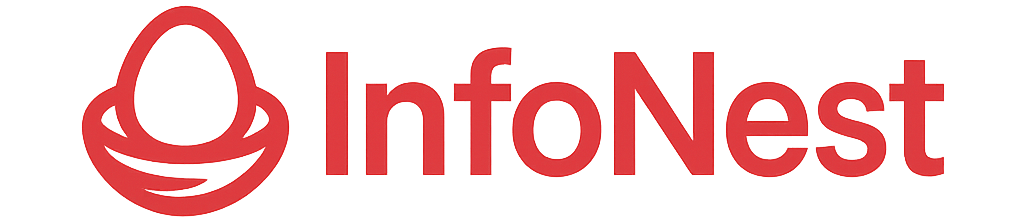
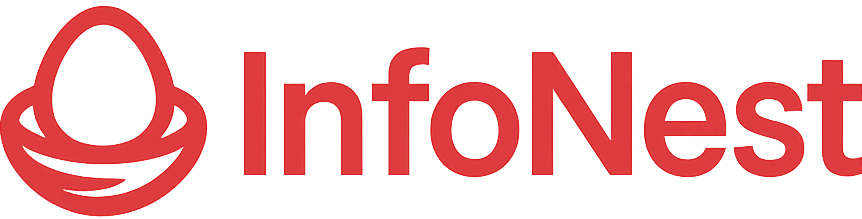
resposive nav bar created

diff --git a/src/components/NavBar.jsx b/src/components/NavBar.jsx
@@ -1,22 +1,27 @@
 import { Link, NavLink } from "react-router";
-import { AiOutlineShoppingCart } from "react-icons/ai";
+
+import { CiUser } from "react-icons/ci";
+
 import { BsBroadcastPin } from "react-icons/bs";
 
 import { IoIosMenu } from "react-icons/io";
+
 import { useState } from "react";
+
 import { RxCross1 } from "react-icons/rx";
-import MainIcon from "../assets/mainIcon.png"
+
+import MainIcon from "../assets/mainIcon.png";
 
 const NavBar = () => {
     // State to handle mobile menu open/close
+
     const [open, setOpen] = useState(false);
 
     // Navigation fields for the navbar links
     const navFields = [
-        { id: 1, path: "category/all", name: "Home" },
-        { id: 2, path: "/Statistics", name: "Statistics" },
-        { id: 3, path: "/Dashboard", name: "Dashboard" },
-        { id: 4, path: "/AboutUs", name: "About Us" },
+        { id: 1, path: "", name: "Home" },
+        { id: 2, path: "about", name: "About Us" },
+        { id: 3, path: "/Dashboard", name: "Career" },
     ]
 
     if (open) {
@@ -29,32 +34,53 @@ const NavBar = () => {
         // Main navigation bar
         <nav className={`lg:py-6 py-5   bg-transparent pr-2 mt-2  flex flex-col items-center`}>
 
-            <div className="container m-auto flex justify-between items-center px-2 md:px-4">
-                {/* Mobile Menu Toggle Icon */}
-                <div className="lg:hidden z-50">
-                    {
-                        open ? <RxCross1 onClick={() => setOpen(!open)} className="text-3xl"></RxCross1> : <IoIosMenu onClick={() => setOpen(!open)} className="text-3xl"></IoIosMenu>
-                    }
-                </div>
-                {/* Live*/}
-                <button className=" py-1 border border-red-500 px-4 rounded"><Link className="flex items-center justify-center gap-1 text-red-500"><BsBroadcastPin /><span className="lg:block hidden">Live</span></Link></button>
-                {/* Navigation Links */}
-                <img className="w-[400px]" src={MainIcon} alt="" />
+            <div className="container m-auto flex justify-between items-center ">
+                <div className="flex gap-1">
+                    {/* Mobile Menu Toggle Icon */}
+                    <div className="lg:hidden z-50 ">
+                        {
+                            open ? <RxCross1 onClick={() => setOpen(!open)} className="text-2xl font-normal"></RxCross1> : <IoIosMenu onClick={() => setOpen(!open)} className="text-2xl font-normal"></IoIosMenu>
+                        }
+                    </div>
+                    {/* Live*/}
+                    <button className="  border border-red-500 px-3 rounded"><Link className="flex items-center justify-center gap-1 text-red-500"><BsBroadcastPin /><span className="lg:block mt-1 hidden">Live</span></Link></button>
 
-                <div className="flex  gap-3">
-                    {/* Add to Cart button */}
-                    <button className="btn indicator btn-circle" >
-                        <AiOutlineShoppingCart className="text-2xl text-black"></AiOutlineShoppingCart>
-                    </button>
+
                 </div>
+
+
+                {/* Main Icon */}
+                <img className="md:w-[300px] w-[220px]" src={MainIcon} alt="" />
+
+                {/* Add to Cart button */}
+                <div className="dropdown dropdown-end">
+                    <div tabIndex={0} role="button" className="">
+                        <div className="border border-black/50 px-1 py-1 rounded hover:border-black">
+                            <CiUser className="text-black/90 hover:text-black"></CiUser>
+                        </div>
+                    </div>
+                    <ul
+                        tabIndex={0}
+                        className="menu menu-sm dropdown-content bg-base-100 rounded-box z-1 mt-3 w-52 p-2 shadow">
+                        <li>
+                            <a className="justify-between">
+                                Profile
+                                <span className="badge">New</span>
+                            </a>
+                        </li>
+                        <li><a>Settings</a></li>
+                        <li><a>Logout</a></li>
+                    </ul>
+                </div>
+
 
             </div>
-
+            {/* Navigation Links */}
             <div className={` ${open ? "left-0" : "left-[-500px]"} duration-700  lg:static lg:block  lg:w-auto lg:h-auto md:w-[30%] w-[45%] top-0 h-screen z-40 bg-neutral-100/90 lg:bg-transparent   absolute `}>
 
-                <ul className="lg:flex   gap-7 lg:mt-0 mt-19 lg:bg-transparent text-[#6b6b6f]">
+                <ul className="lg:flex   gap-7 lg:mt-0 mt-20 lg:bg-transparent text-[#6b6b6f]">
 
-                    {navFields.map((field) => <NavLink key={field.id} to={field.path} className={({ isActive }) => `rounded px-3 py-2 block ${isActive ? "text-white bg-black" :
+                    {navFields.map((field) => <NavLink key={field.id} to={field.path} className={({ isActive }) => `rounded px-3 py-2 block ${isActive ? "text-black/80" :
                         " hover:bg-neutral-100"}`}>{field.name}</NavLink>)}
                 </ul>
             </div>

diff --git a/src/routes/Routes.jsx b/src/routes/Routes.jsx
@@ -2,13 +2,26 @@ import {
     createBrowserRouter,
 } from "react-router";
 import Home from "../layouts/Home";
+import AboutUs from "../layouts/AboutUs";
+import Root from "../layouts/Root";
 
 
 const router = createBrowserRouter([
     {
-        path: "/",
-        element: <Home></Home>
+        path: "",
+        element: <Root></Root>,
+        children: [
+            {
+                path: "",
+                element: <Home></Home>
+            },
+            {
+                path: "about",
+                element: <AboutUs></AboutUs>
+            }
+        ]
     },
+
 ]);
 
 export default router;

diff --git a/src/layouts/Root.jsx b/src/layouts/Root.jsx
@@ -1,0 +1,19 @@
+import React from 'react';
+import NavBar from '../components/NavBar';
+import { Outlet } from 'react-router';
+
+const Root = () => {
+    return (
+        <>
+            <header>
+                <NavBar></NavBar>
+            </header>
+            <main className='container mx-auto'>
+                <Outlet></Outlet>
+            </main>
+
+        </>
+    );
+};
+
+export default Root;

diff --git a/src/layouts/Home.jsx b/src/layouts/Home.jsx
@@ -4,11 +4,7 @@ import NavBar from "../components/NavBar";
 const Home = () => {
     return (
         <>
-            <header>
-                <nav>
-                    <NavBar></NavBar>
-                </nav>
-            </header>
+            <h1>this is home</h1>
         </>
     );
 };

diff --git a/src/layouts/AboutUs.jsx b/src/layouts/AboutUs.jsx
@@ -1,0 +1,11 @@
+
+
+const AboutUs = () => {
+    return (
+        <div>
+            <h1>This is About Us</h1>
+        </div>
+    );
+};
+
+export default AboutUs;
